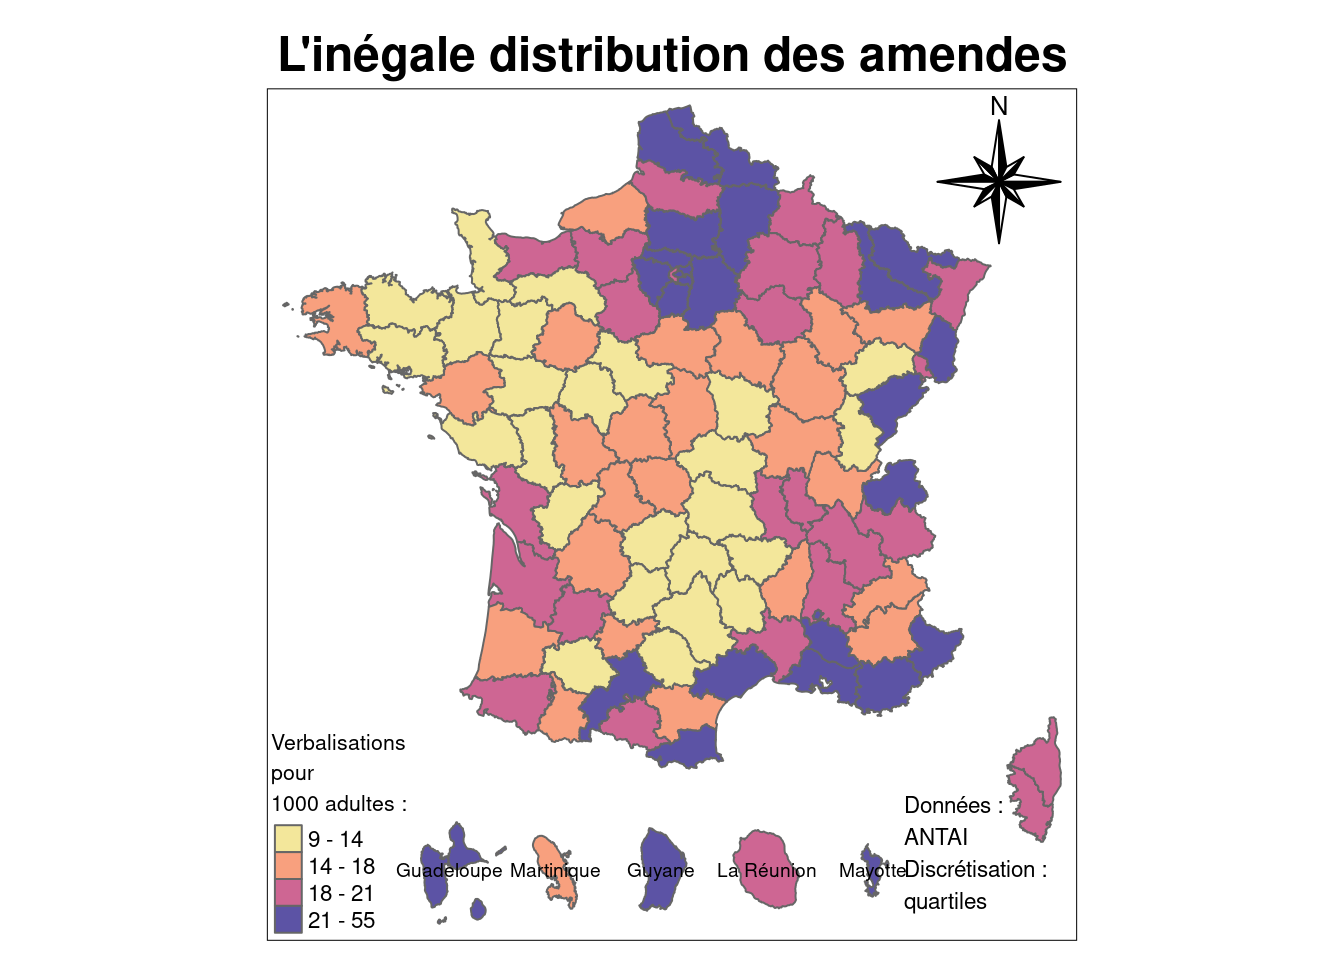
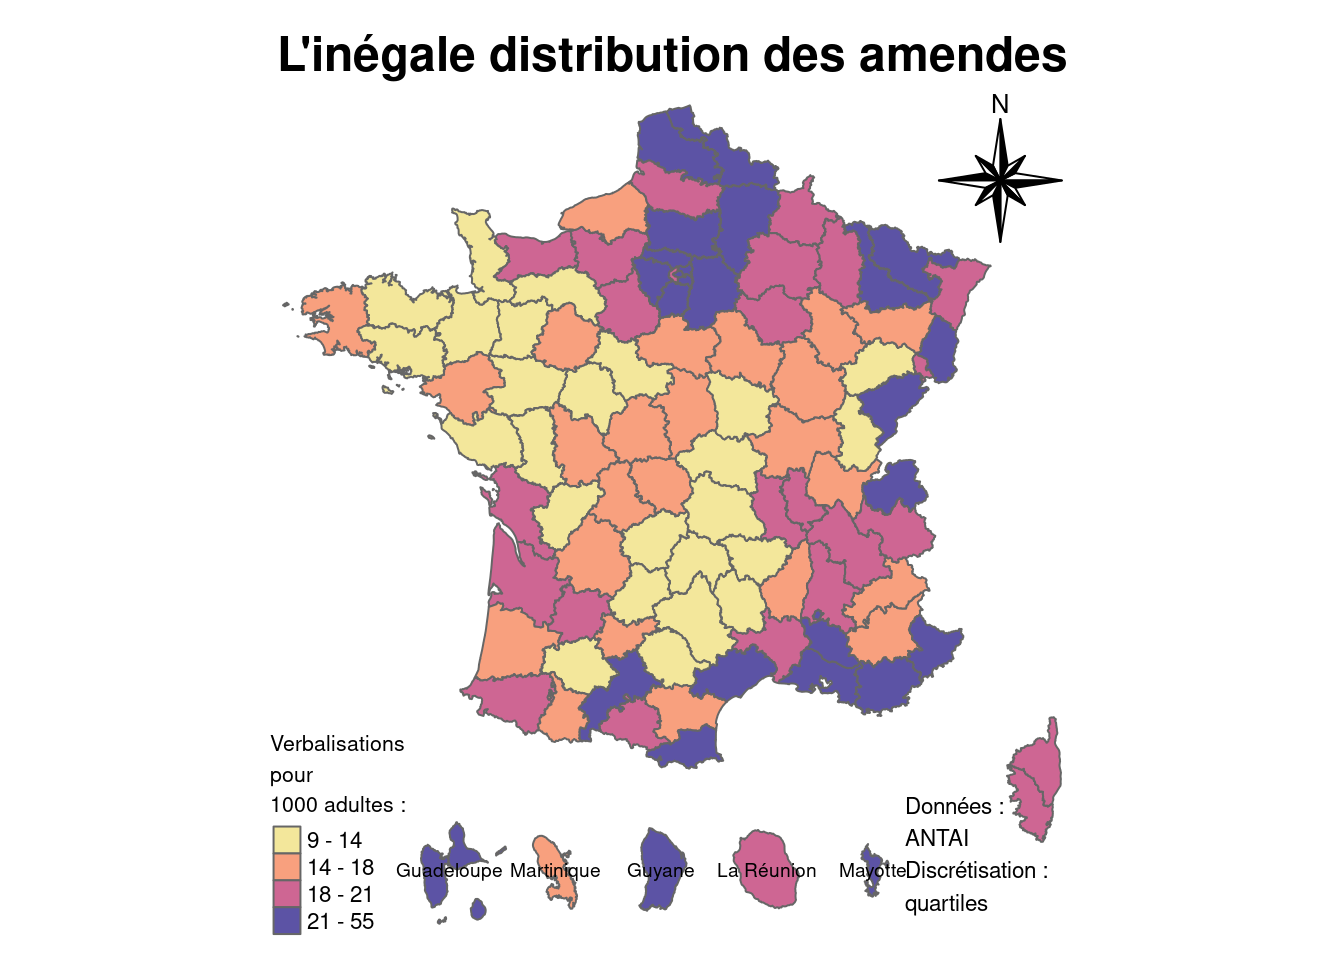
use verbalisations map as preview image

Changed region(s): [[0.1875, 0.75, 0.3125, 1.0], [0.6562, 0.8125, 0.7812, 0.9688], [0.7188, 0.0938, 0.7812, 0.25]]

diff --git a/docs/exercices/verbalisations-departement/index.html b/docs/exercices/verbalisations-departement/index.html
@@ -975,7 +975,7 @@ Astuce
 </section>
 <section id="cartographier" class="level2">
 <h2 class="anchored" data-anchor-id="cartographier">Cartographier</h2>
-<div class="cell">
+<div class="cell preview-image">
 <div class="sourceCode cell-code" id="cb15"><pre class="sourceCode r code-with-copy"><code class="sourceCode r"><span id="cb15-1"><a href="#cb15-1" aria-hidden="true" tabindex="-1"></a>departements_sf <span class="sc">|&gt;</span> </span>
 <span id="cb15-2"><a href="#cb15-2" aria-hidden="true" tabindex="-1"></a>  <span class="fu">select</span>(<span class="sc">-</span>nom_departement) <span class="sc">|&gt;</span> </span>
 <span id="cb15-3"><a href="#cb15-3" aria-hidden="true" tabindex="-1"></a>  <span class="fu">left_join</span>(departements, <span class="at">by =</span> <span class="st">"code_departement"</span>) <span class="sc">|&gt;</span> </span>
@@ -998,7 +998,7 @@ Astuce
 <span id="cb15-20"><a href="#cb15-20" aria-hidden="true" tabindex="-1"></a>            <span class="at">legend.position =</span> <span class="fu">c</span>(<span class="st">"LEFT"</span>, <span class="st">"BOTTOM"</span>),</span>
 <span id="cb15-21"><a href="#cb15-21" aria-hidden="true" tabindex="-1"></a>            <span class="at">legend.title.size =</span> .<span class="dv">8</span>,</span>
 <span id="cb15-22"><a href="#cb15-22" aria-hidden="true" tabindex="-1"></a>            <span class="at">fontfamily =</span> <span class="st">"Helvetica"</span>,</span>
-<span id="cb15-23"><a href="#cb15-23" aria-hidden="true" tabindex="-1"></a>            <span class="at">frame.lwd =</span> <span class="dv">1</span>)</span></code><button title="Copier vers le presse-papier" class="code-copy-button"><i class="bi"></i></button></pre></div>
+<span id="cb15-23"><a href="#cb15-23" aria-hidden="true" tabindex="-1"></a>            <span class="at">frame.lwd =</span> <span class="dv">0</span>)</span></code><button title="Copier vers le presse-papier" class="code-copy-button"><i class="bi"></i></button></pre></div>
 <div class="cell-output-display">
 <p><img src="index_files/figure-html/map-1.png" class="img-fluid" width="672"></p>
 </div>

diff --git a/docs/exercices.html b/docs/exercices.html
@@ -360,10 +360,10 @@ Théo Boulakia, Nicolas Mariot
 </div>
 </a>
 </div>
-<div class="g-col-1" data-index="6" data-categories="La Police des sorties" data-listing-date-sort="1687644000000" data-listing-file-modified-sort="1695928040777" data-listing-date-modified-sort="NaN" data-listing-reading-time-sort="5">
+<div class="g-col-1" data-index="6" data-categories="La Police des sorties" data-listing-date-sort="1687644000000" data-listing-file-modified-sort="1696241402881" data-listing-date-modified-sort="NaN" data-listing-reading-time-sort="5">
 <a href="./exercices/verbalisations-departement/index.html" class="quarto-grid-link">
 <div class="quarto-grid-item card h-100 card-left">
-<p class="card-img-top"><img src="exercices/verbalisations-departement/index_files/figure-html/plot_palmares-1.png" style="height: 150px;"  class="thumbnail-image card-img"/></p>
+<p class="card-img-top"><img src="exercices/verbalisations-departement/index_files/figure-html/map-1.png" style="height: 150px;"  class="thumbnail-image card-img"/></p>
 <div class="card-body post-contents">
 <h5 class="no-anchor card-title listing-title">
 Des verbalisations très inégalement distribuées
